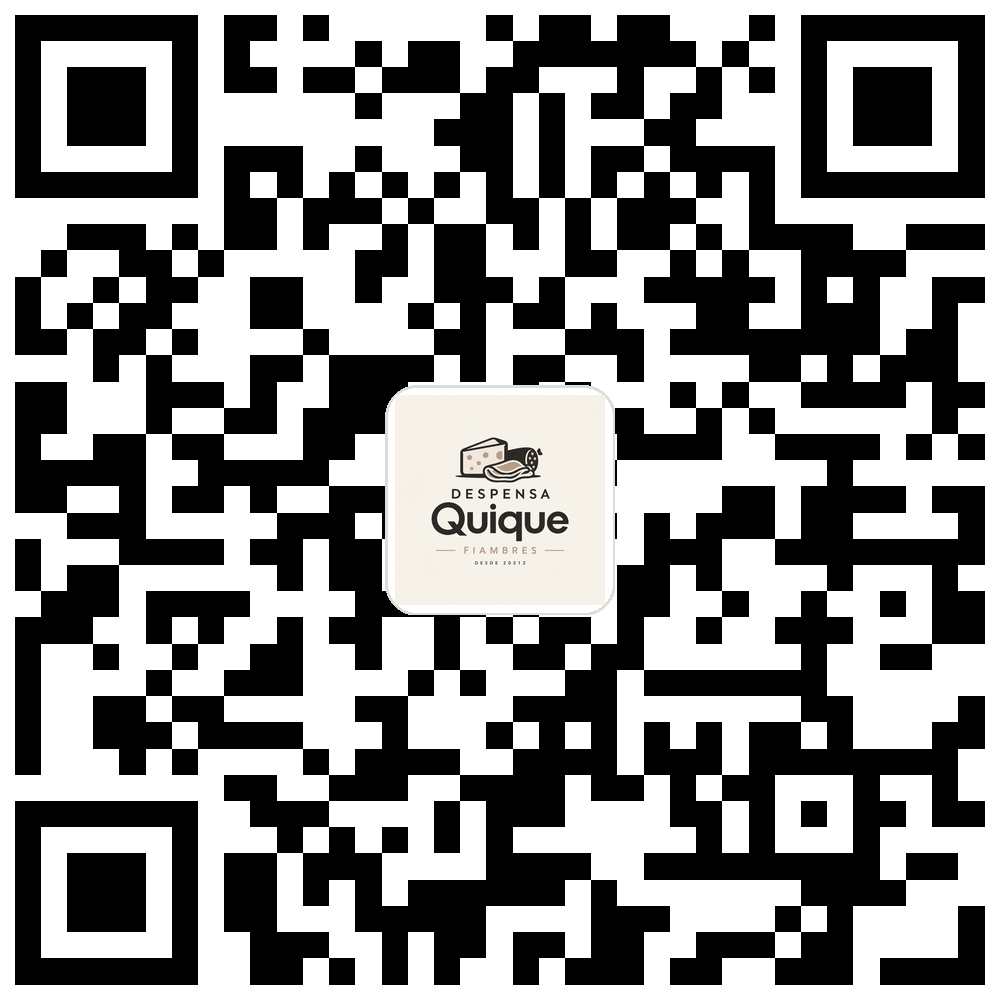
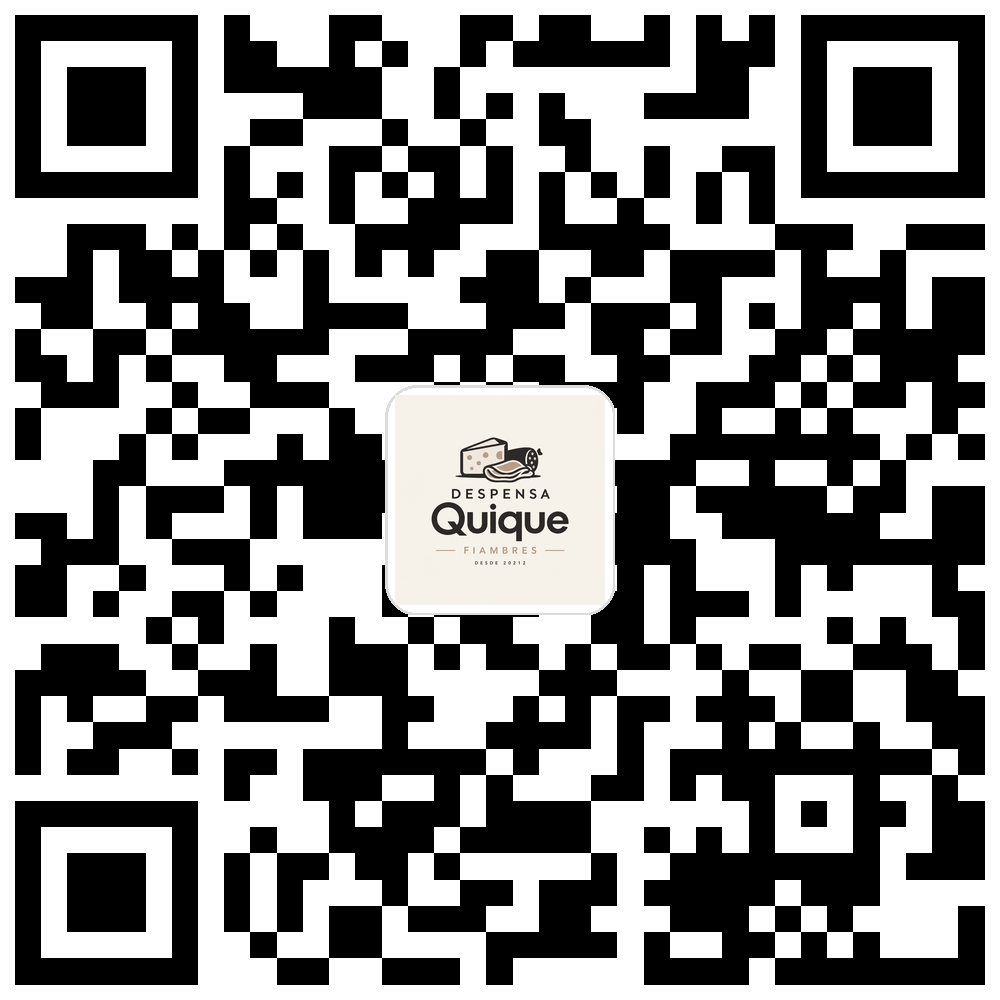
feat: add dynamic /ig redirect and update Instagram QR target

diff --git a/ig/index.html b/ig/index.html
@@ -1,0 +1,31 @@
+<!DOCTYPE html>
+<html lang="es">
+<head>
+  <meta charset="UTF-8">
+  <meta name="viewport" content="width=device-width, initial-scale=1.0">
+  <title>Redirigiendo a Instagram — Despensa Quique</title>
+  <link rel="icon" type="image/png" href="/logo/logo.png">
+  <script type="module">
+    import { CONFIG } from '/src/config.js';
+    const target = CONFIG.INSTAGRAM_URL || 'https://instagram.com/despensaquique';
+    window.location.replace(target);
+  </script>
+</head>
+<body style="font-family: system-ui, -apple-system, sans-serif; display: flex; align-items: center; justify-content: center; min-height: 100vh; margin: 0; background: #FFFEFB; color: #1F1C19; text-align: center; padding: 20px;">
+  <div>
+    <img src="/logo/logo.png" alt="Despensa Quique" style="width: 72px; height: 72px; border-radius: 20px; object-fit: cover; margin-bottom: 16px;">
+    <h1 style="font-size: 18px; margin: 0 0 8px 0;">Redirigiendo a Instagram...</h1>
+    <p style="font-size: 13px; color: #7A736C; margin: 0 0 16px 0;">Despensa Quique</p>
+    <p style="font-size: 12px; color: #7A736C;">
+      Si no te redirige automáticamente, <a id="fallback-link" href="https://instagram.com/despensaquique" style="color: #1F1C19; font-weight: bold;">hacé clic acá</a>.
+    </p>
+  </div>
+  <script type="module">
+    import { CONFIG } from '/src/config.js';
+    const link = document.getElementById('fallback-link');
+    if (link && CONFIG.INSTAGRAM_URL) {
+      link.href = CONFIG.INSTAGRAM_URL;
+    }
+  </script>
+</body>
+</html>

diff --git a/vite.config.js b/vite.config.js
@@ -14,6 +14,8 @@ export default defineConfig({
 
           if (pathname === '/precios' || pathname === '/precios/') {
             req.url = '/precios/index.html' + query;
+          } else if (pathname === '/ig' || pathname === '/ig/') {
+            req.url = '/ig/index.html' + query;
           } else if (pathname === '/admin' || pathname === '/admin/') {
             req.url = '/index.html' + query;
           }
@@ -27,6 +29,7 @@ export default defineConfig({
       input: {
         main: resolve(import.meta.dirname, 'index.html'),
         precios: resolve(import.meta.dirname, 'precios/index.html'),
+        ig: resolve(import.meta.dirname, 'ig/index.html'),
       },
     },
   },

diff --git a/scripts/generate_qrs.py b/scripts/generate_qrs.py
@@ -40,7 +40,7 @@ def generate_qr_with_logo(url, logo_path, out_png, out_svg):
     print(f'Saved {out_png} and {out_svg}')
 
 if __name__ == '__main__':
-    # 1. Precios QR
+    # 1. Precios QR -> apunta al catalogo publico
     generate_qr_with_logo(
         'https://despensa-quique.vercel.app/precios',
         'public/logo/logo.png',
@@ -48,9 +48,9 @@ if __name__ == '__main__':
         'public/qr/qr-precios-vector.svg'
     )
 
-    # 2. Instagram QR
+    # 2. Instagram QR -> apunta a la redireccion dinamica /ig
     generate_qr_with_logo(
-        'https://instagram.com/despensaquique',
+        'https://despensa-quique.vercel.app/ig',
         'public/logo/logo.png',
         'public/qr/qr-instagram-1000px.png',
         'public/qr/qr-instagram-vector.svg'
